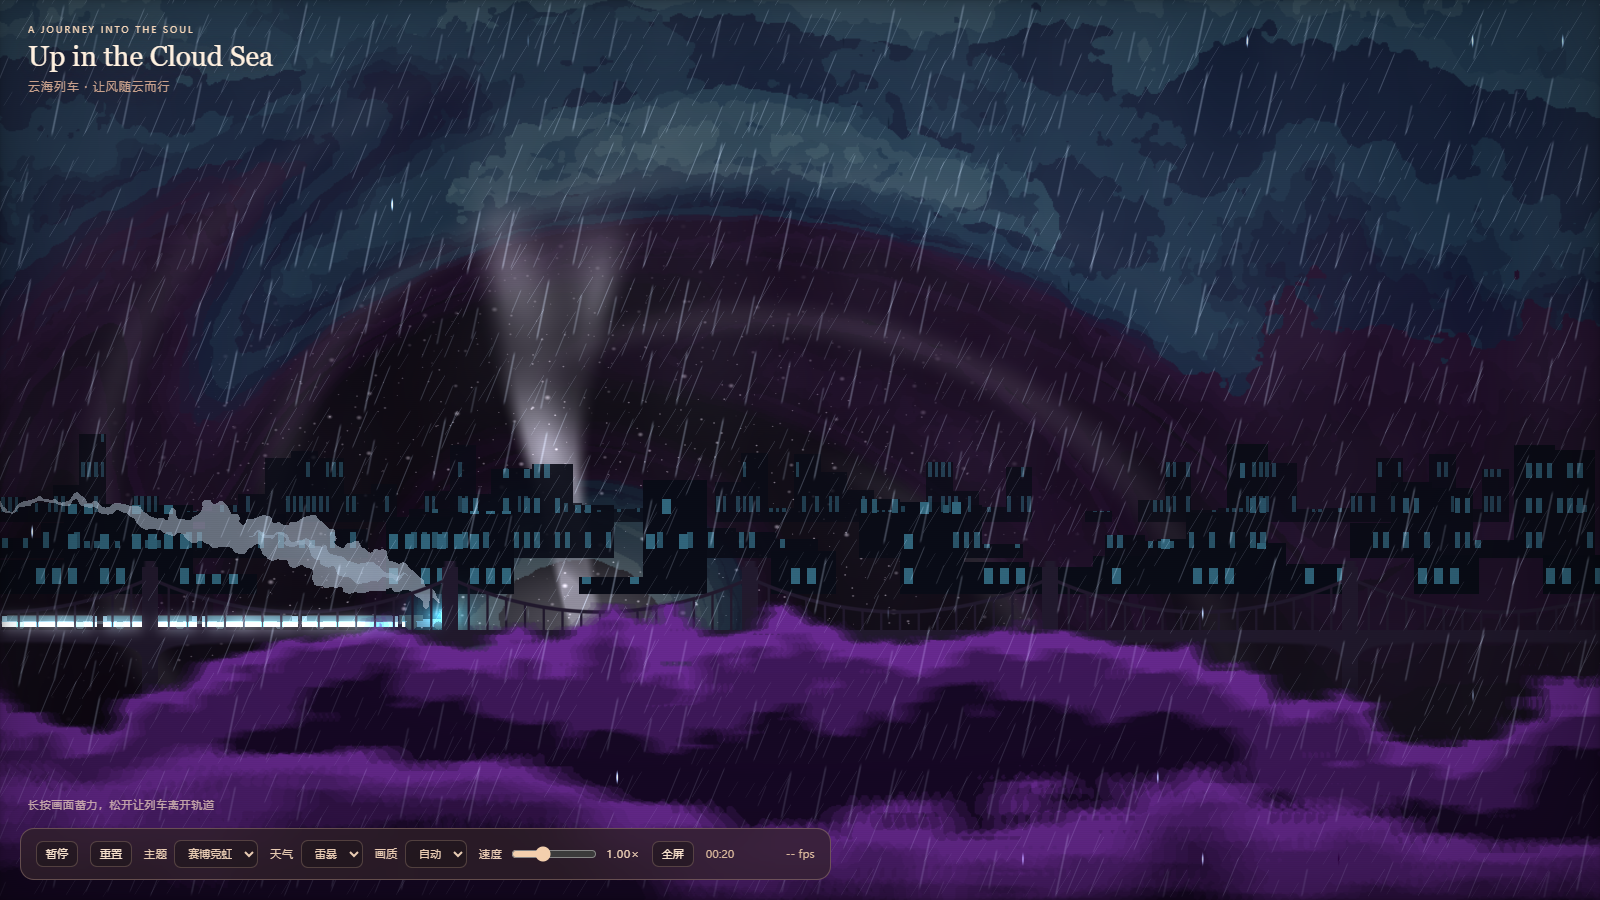
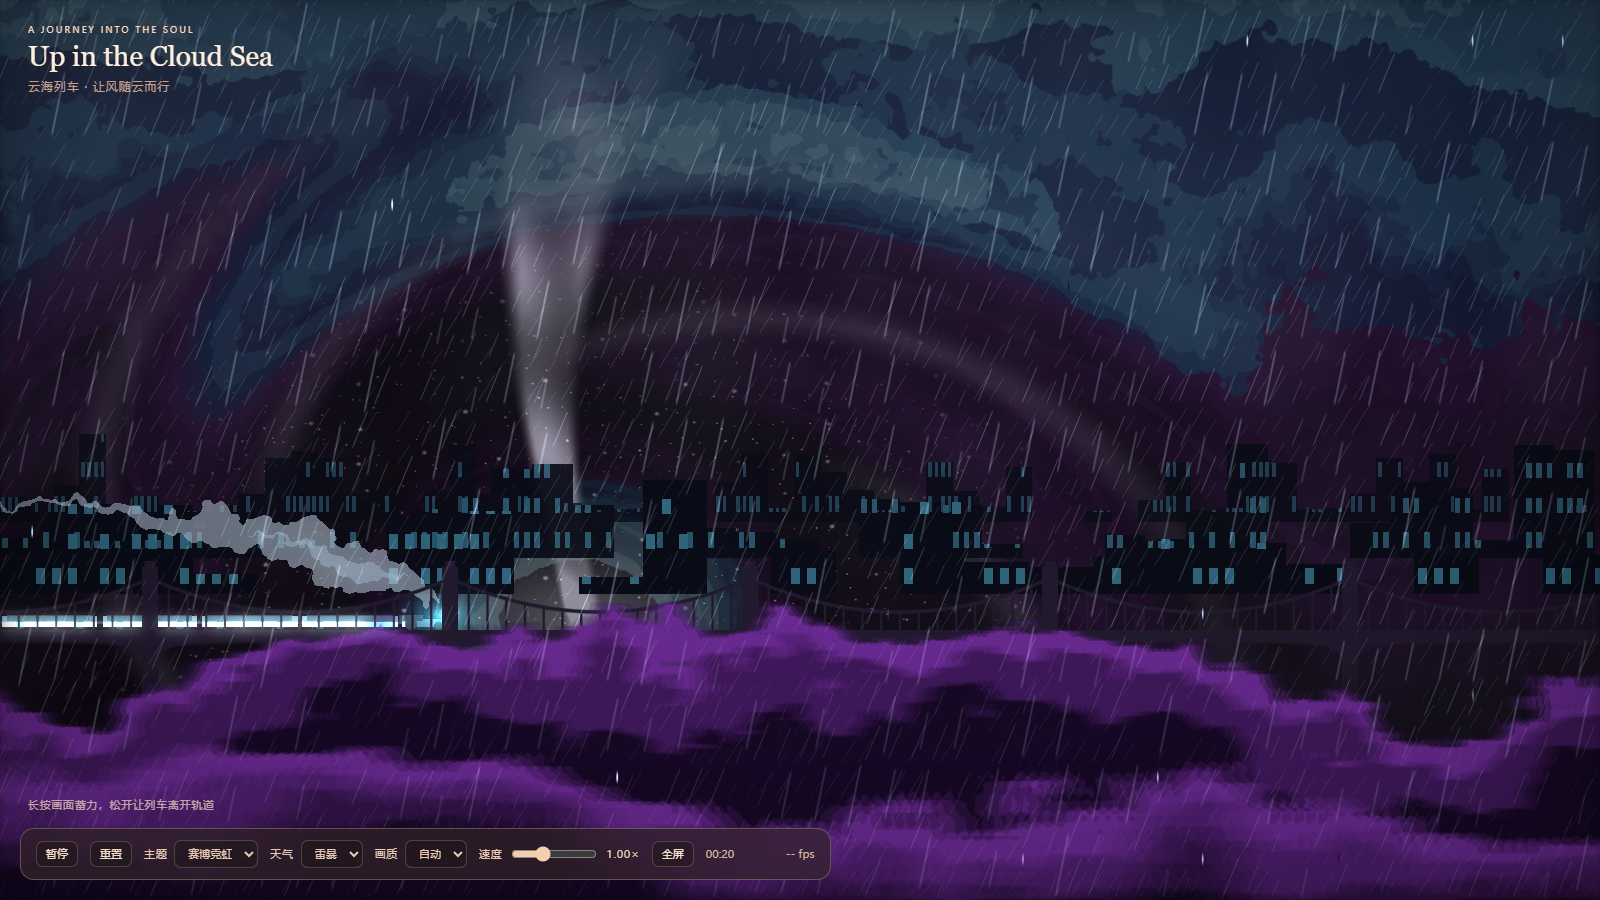
M19: 漏斗顶部平滑渐隐（修 smoothstep 反序未定义行为）+ 碎屑统一角速度

Changed region(s): [[0.2812, 0.2489, 0.4062, 0.56], [0.3438, 0.0933, 0.375, 0.1556]]

diff --git a/docs/开发日志.md b/docs/开发日志.md
@@ -421,6 +421,46 @@ carveDelta = -smoothstep(0.26, 0.0, tr) * 1.45 * uTornado     // 中心压到天
 
 ---
 
+## 2026-11-18 · M19 龙卷小修：顶部硬边与碎屑旋转
+
+### 一、修掉漏斗顶部的硬切边（这条值得记）
+
+现象：漏斗到云顶的位置有一条明显的水平硬边，再往上还出现一块白斑。
+
+**根因是 GLSL 的未定义行为**：`smoothstep(0.62, 0.20, p.y)` —— 第一个参数大于第二个，
+GLSL 规范规定 `edge0 >= edge1` 时结果未定义。不同驱动可能给出任意结果，
+本机上就表现为"要么立刻截断、要么糊成一片白"。
+
+改法是换成单调写法：
+
+```glsl
+float profile = step(-0.06, p.y) * (1.0 - smoothstep(0.30, 0.74, p.y));
+```
+
+先试过 `smoothstep(0.92, 0.58, ...)` 和加"云领"，都因为同样的未定义行为变成白斑；
+最终用 `1 - smoothstep(a, b, x)`（a < b）才稳定。
+
+**教训：`smoothstep` 的 edge0 必须小于 edge1；要做反向渐变就写 `1.0 - smoothstep(...)`。**
+
+### 二、碎屑统一角速度
+
+原来每颗碎屑的角速度 `t * (0.7 + h2*1.3)` 各自不同，方向感是散的。改成同一角速度、只留相位差：
+
+```glsl
+float ang = t * 1.15 + h1 * 6.2831;
+float orbit = 0.12 + 0.20 * h2 + 0.08 * sin(t * 0.9 + h1 * 6.28);
+```
+
+现在整团碎屑朝同一方向绕漏斗旋转，读起来像被同一个涡旋带着走。
+
+### 数据
+
+- 1080p 雷暴 **8.75 ms**；
+- `verify.ps1` 8/8 通过；
+- 对比：`shots/tornado-seam.png`（左：顶部白斑与硬边；右：单调渐隐）。
+
+---
+
 ## 待办（按优先级）
 
 1. **音频**：风声（随天气变化）、雷声、起飞音效——M9 唯一没兑现的项；
